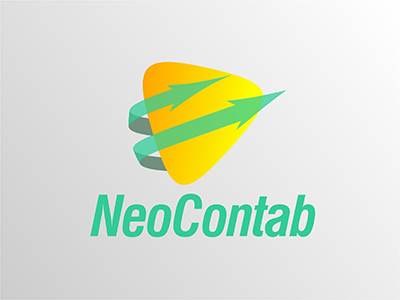
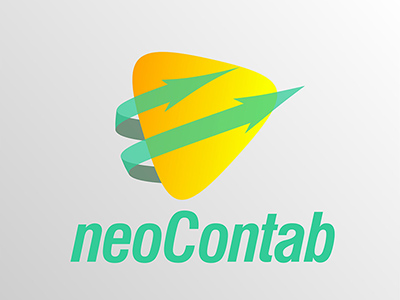
modif neoContab

Changed region(s): [[0.15, 0.15, 0.84, 0.9], [0.51, 0.36, 0.57, 0.39], [0.45, 0.39, 0.51, 0.42]]

diff --git a/index.html b/index.html
@@ -157,7 +157,7 @@
               <img class="img-fluid" src="img/portfolio/NC_thumbnail.jpg" alt="">
             </a>
             <div class="portfolio-caption">
-              <h4>NeoContab</h4>
+              <h4>neoContab</h4>
               <p class="text-muted">App contable para empresas</p>
             </div>
           </div>
@@ -171,7 +171,7 @@
               <img class="img-fluid" src="img/portfolio/NT_thumbnail.jpg" alt="">
             </a>
             <div class="portfolio-caption">
-              <h4>NeoTiendas</h4>
+              <h4>neoTiendas</h4>
               <p class="text-muted">App para administrar comercios</p>
             </div>
           </div>
